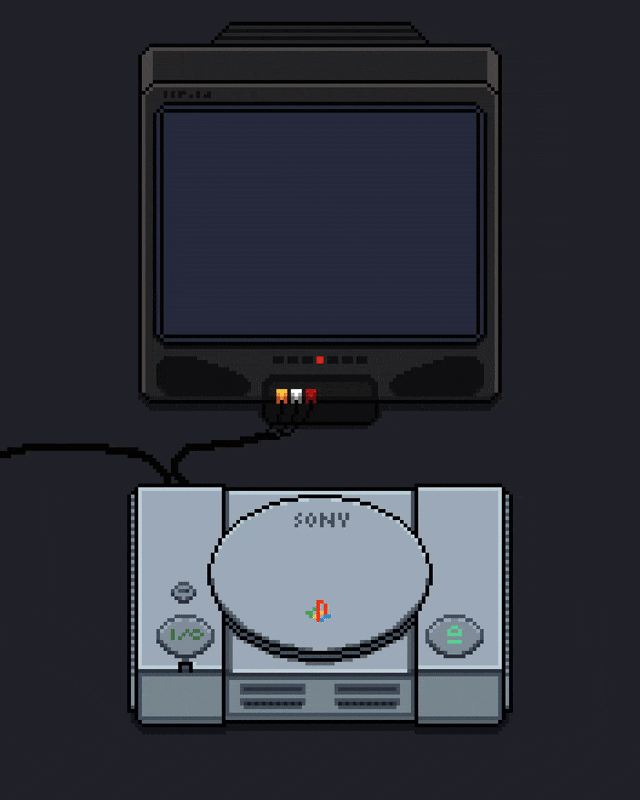
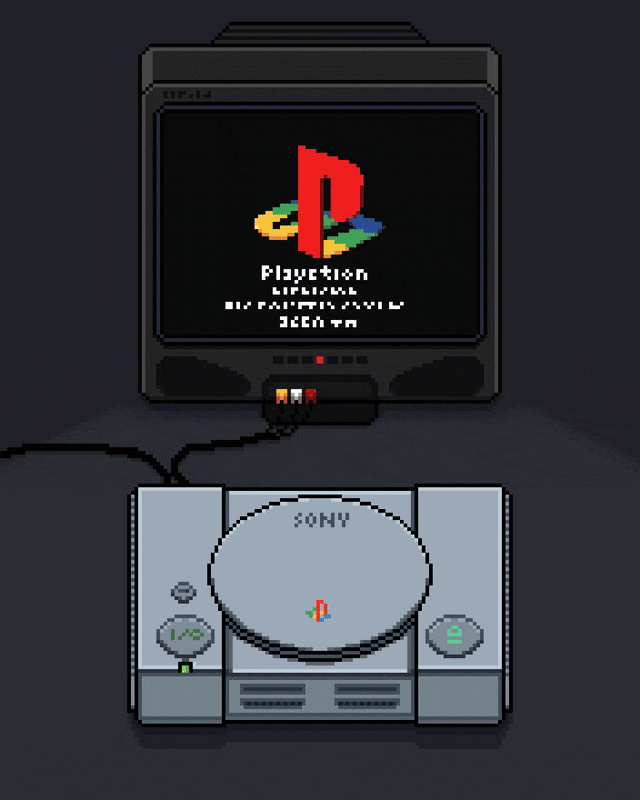
feat(about): close the PS1 boot loop with a power-down fade, frame the art

Changed region(s): [[0.25, 0.125, 0.75, 0.4375], [0.2812, 0.8125, 0.3125, 0.8438]]

diff --git a/src/components/AboutLife.vue b/src/components/AboutLife.vue
@@ -186,13 +186,17 @@
 		margin-bottom: 0;
 	}
 
-	// section art floated into the prose, so the paragraphs after it wrap alongside
+	// section art floated into the prose, so the paragraphs after it wrap alongside.
+	// Framed like the dog photos: the art carries its own dark backdrop, so without
+	// the void border its rectangle reads as an accident rather than a picture.
 	.life-card__media {
 		// <picture> is inline by default, so width would be ignored once the float drops
 		display: block;
 		float: right;
 		width: min(15rem, 34%);
 		margin: 0.2rem 0 0.6rem 1.4rem;
+		overflow: hidden;
+		@include void-panel(transparent);
 	}
 
 	.life-card__media img {
